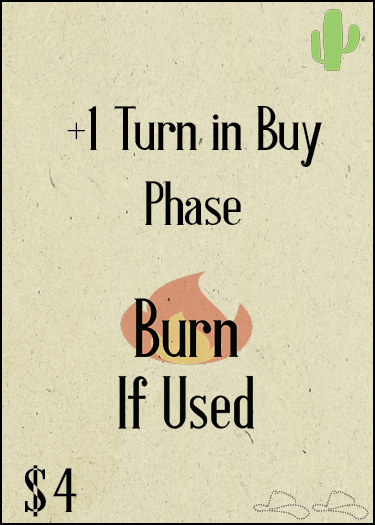
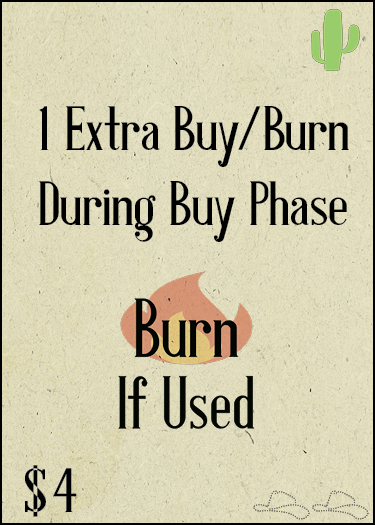
Clarify Card 21 wording: 'During Buy Phase' + errata bullet
Updated card image specifies when the extra action lands. Matching
errata bullet added to rules.html; in-game log now says 'Buy or burn
one more card from the pyramid' instead of the misleading dollar reference.

diff --git a/rules.html b/rules.html
@@ -214,6 +214,7 @@
         <li>When a <strong>"Draw 4"</strong> forces extra draws, you may pause between each draw to activate "Burn to Use" cards before proceeding with your mandatory draws.</li>
         <li><strong>"Peek at Top 3 Cards"</strong> &mdash; view and re-order the top 3 cards of your draw pile. Peeking does not draw them automatically; you may then choose to keep drawing or stop.</li>
         <li>If you run out of cards in both your draw and discard pile, stop drawing for the round.</li>
+        <li><strong>"1 Extra Buy/Burn During Buy Phase"</strong> &mdash; Burn this card during your Draw Phase to earn one bonus action during your Buy Turn. The bonus activates automatically after your normal buy or burn, letting you buy or burn one additional card from the pyramid. If the pyramid is empty when your bonus would trigger, it is lost.</li>
       </ul>
     </section>
 

diff --git a/src/play.js b/src/play.js
@@ -4100,7 +4100,7 @@ function advanceOrExtraBuy(player) {
   if (player === G.players[0] && player.hasExtraBuy && !player.extraBuyUsed) {
     if (!isPyramidEmpty(G.pyramid)) {
       player.extraBuyUsed = true;
-      addLog(`Extra buy/burn! Spend your remaining $${player.roundDollars}.`, 'log-buy');
+      addLog(`Extra buy/burn! Buy or burn one more card from the pyramid.`, 'log-buy');
       humanBuyTurn(player);
       return true;
     }
